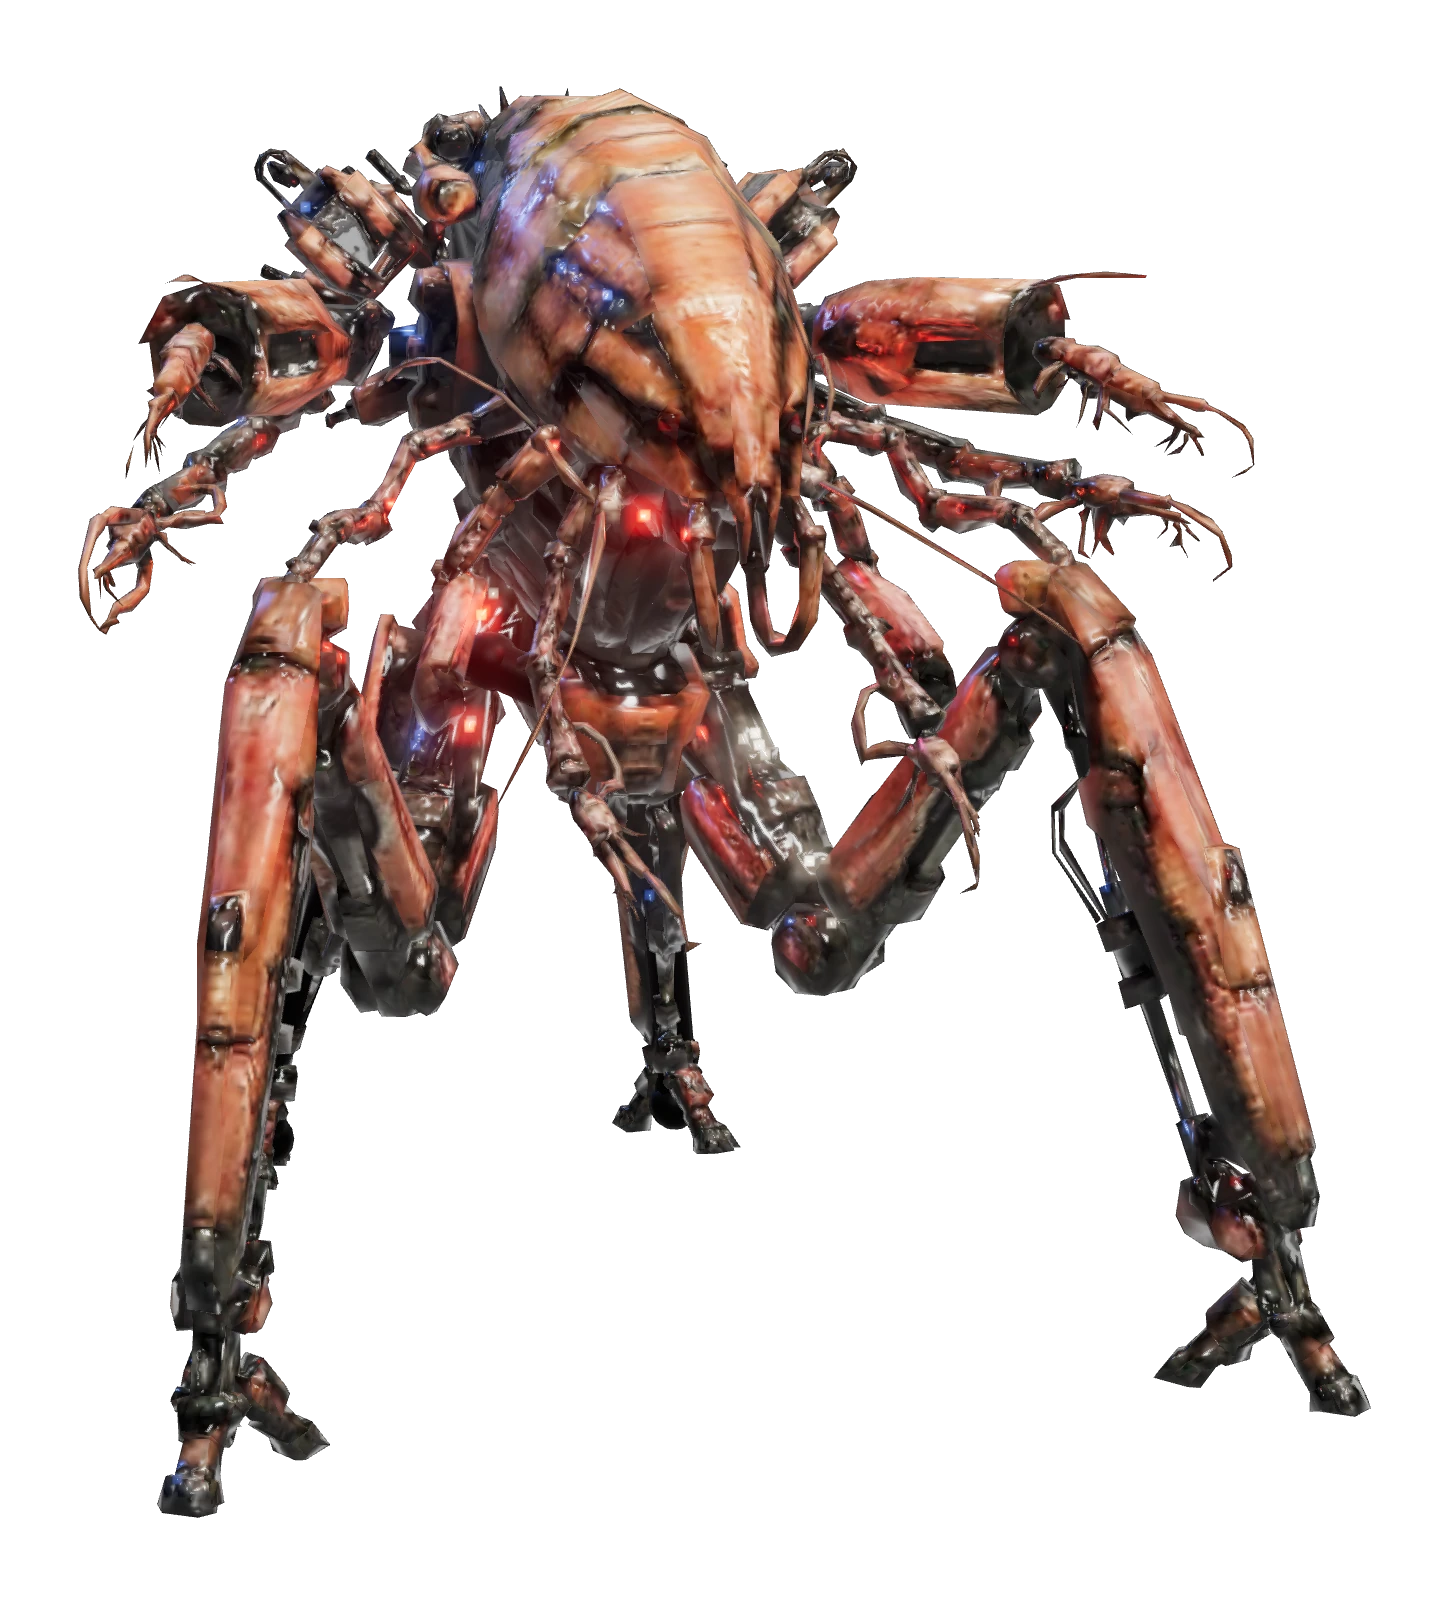
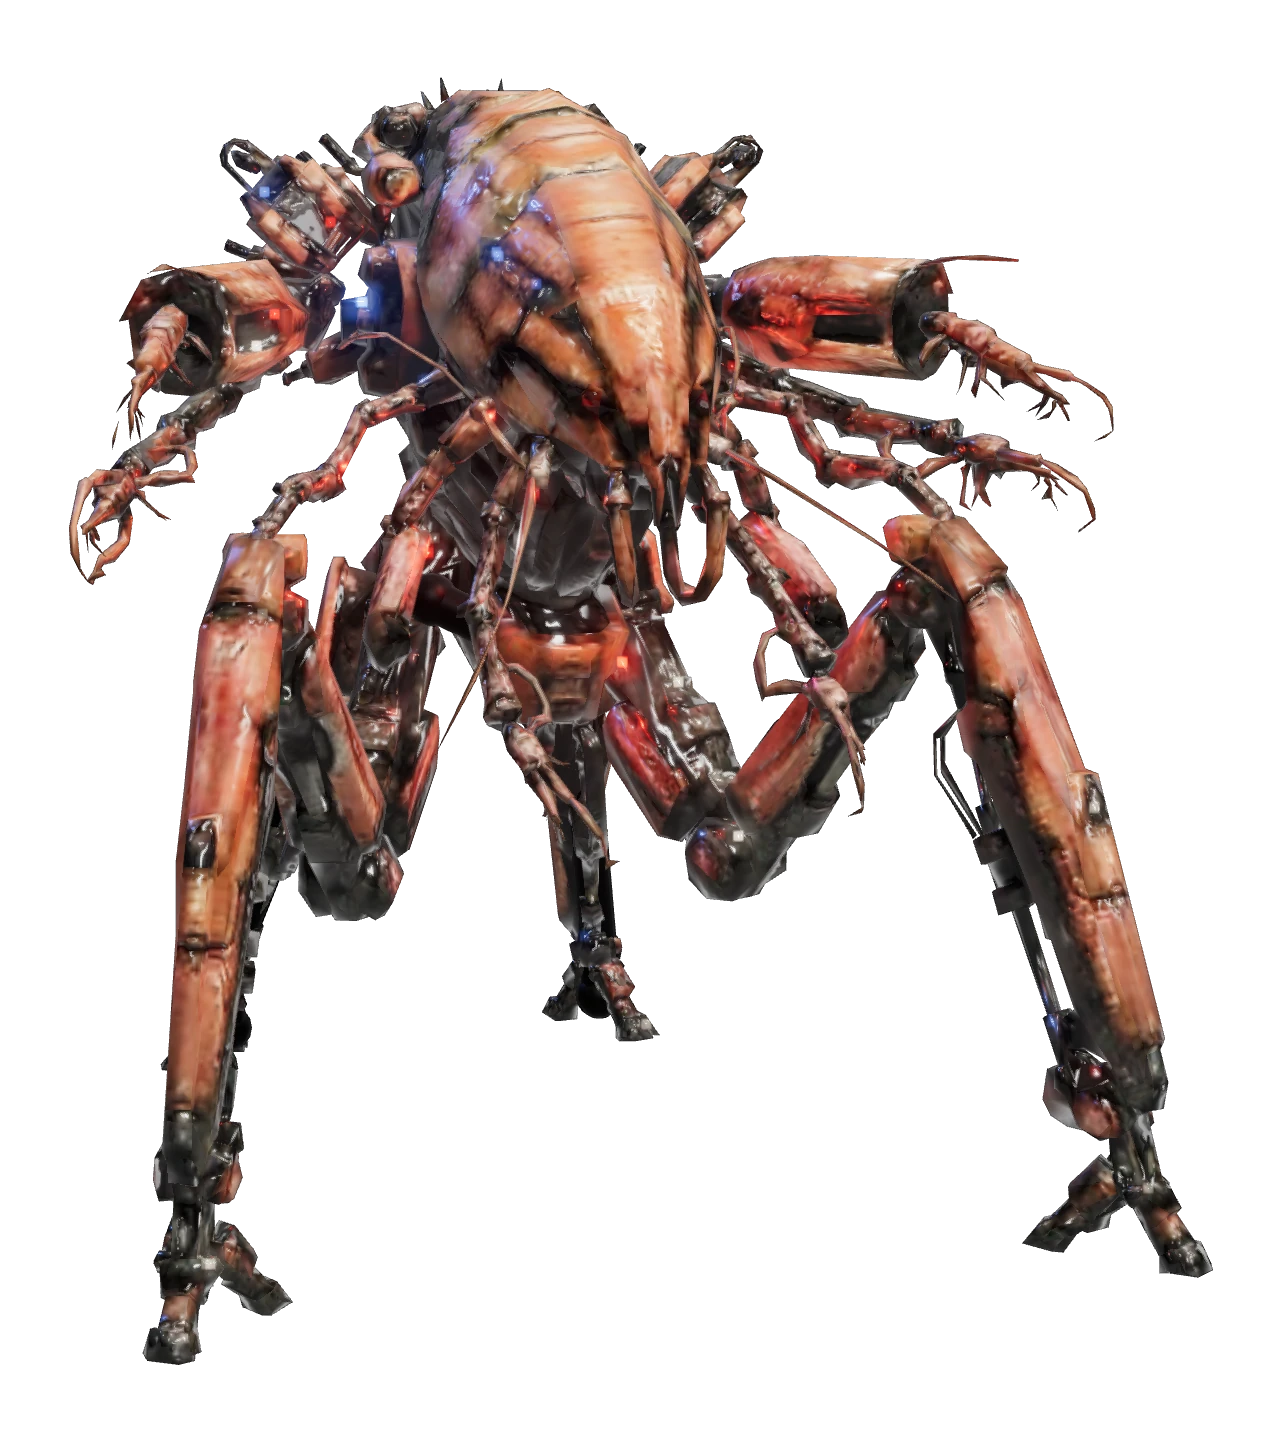
Jerry is 10% smaller, in the fight and on screen
A mech's size lives in two places and both move by 0.9: roster body.scale
(1.22 -> 1.098) is the GAMEPLAY body — collision radius, hit radius,
height, the virtual rig and every move range scaled by f.scale — while the
GLB you see is sized by its manifest modelScale x heightScale, pinned so a
rig edit can never resize it (tools/pin-modelscale.mjs); heightScale is
the artist knob, 0.59 -> 0.531. Changing only the roster number shrank his
collision and left the model at full size.

Measured in a live fight: rendered height 8.84 -> 7.96, head joint 6.85 ->
6.16, radius 1.40 -> 1.26, hit radius 2.07 -> 1.87 (all x0.90), feet
still on the floor. Hurtbox fit unchanged (82% / 1.02x), the climb
circuit still runs floor -> roof -> far side, soak clean. Poster
regenerated at the new size.

Claude-Session: https://claude.ai/code/session_01VLrG7DLTazKyMsziEhCUMv

Changed region(s): [[0.0312, 0.0312, 0.936, 0.9362], [0.8424, 0.3433, 0.8736, 0.3745]]

diff --git a/src/mechs/roster.js b/src/mechs/roster.js
@@ -642,7 +642,7 @@ export const ROSTER = [
       primary: { base: 0xb9816b, base2: 0xa5583c, metal: 0x6e6258, wear: 0.66, grime: 0.58, panelDepth: 4, roughPaint: 0.58, metalPaint: 0.24, normalStrength: 1.3 },
       accent: { base: 0x35291f, base2: 0x271e17, metal: 0x6e6258, wear: 0.55, grime: 0.55, panelDepth: 3, roughPaint: 0.55, metalPaint: 0.4, normalStrength: 1.2 },
     },
-    body: { scale: 1.22, torsoW: 1.15, torsoH: 1.15, headSize: 0.75, armLen: 0.95, legLen: 1.28, hipW: 1.18, bulk: 0.95 },
+    body: { scale: 1.098, torsoW: 1.15, torsoH: 1.15, headSize: 0.75, armLen: 0.95, legLen: 1.28, hipW: 1.18, bulk: 0.95 },
     // grasshopper crouch: legs splayed wide, deeply folded, ready to spring
     restPose: { torso: [14, 0, 0], head: [-8, 0, 0], shoulderL: [-30, 0, -14], shoulderR: [-30, 0, 14], elbowL: [22, 0, 0], elbowR: [22, 0, 0], thighL: [-26, 0, -24], thighR: [-26, 0, 24], kneeL: [58, 0, 4], kneeR: [58, 0, -4], ankleL: [-30, 0, 20], ankleR: [-30, 0, -20] },
     // jumpWindup: he CROUCHES first, then launches — highest jump in the game
